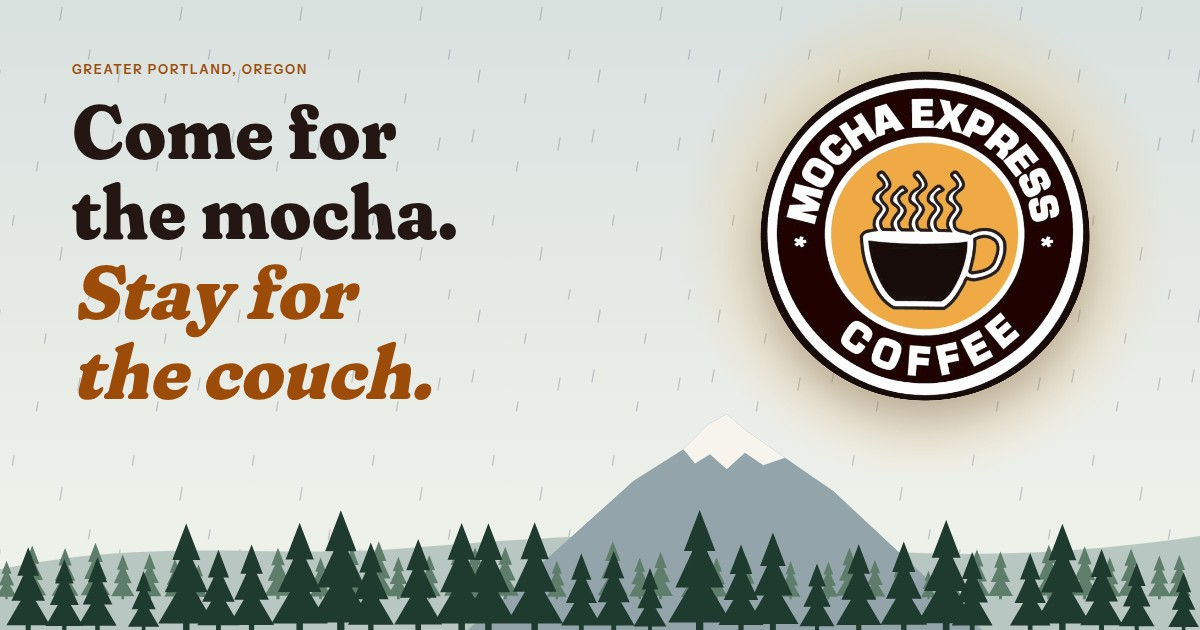
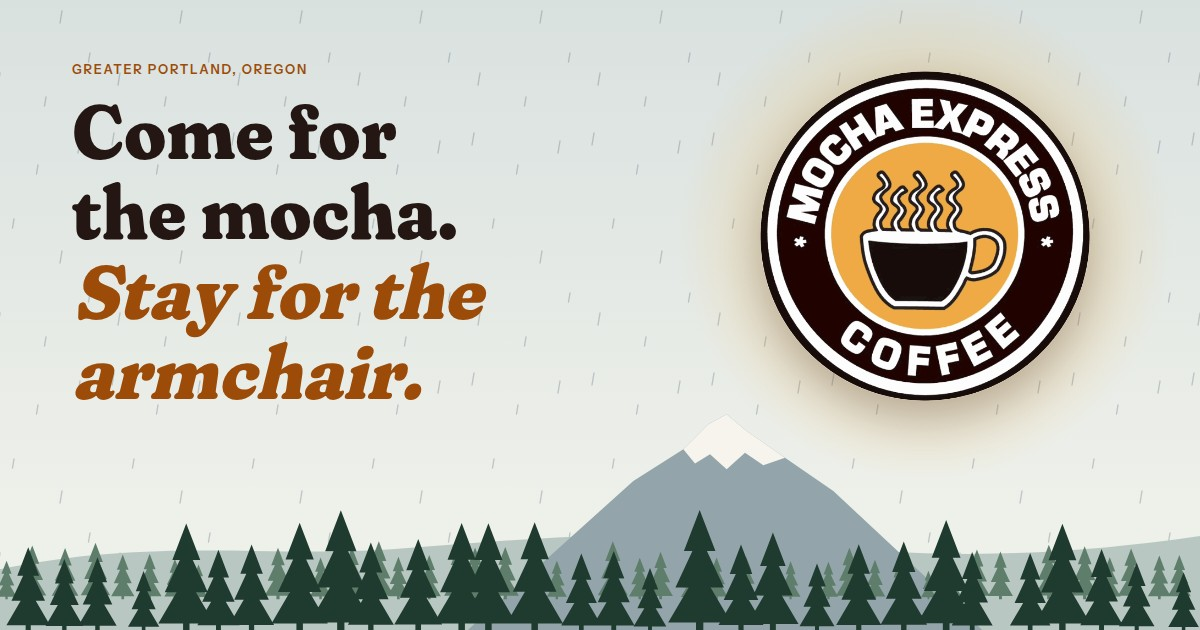
Show the shop's big armchairs instead of couches
The shops have oversized single armchairs, not couches. Redraw the lounge
illustration with two recliner-style armchairs, a reading lamp and a work
table, and update the hero line, the space copy, the amenity icon, the
page description and the link-preview image.

Claude-Session: https://claude.ai/code/session_01GDkGbK2mZAiAHDxbWSDNpz

Changed region(s): [[0.0617, 0.5429, 0.37, 0.6333], [0.3083, 0.4222, 0.4317, 0.5127]]

diff --git a/src/components/CozyCorner.tsx b/src/components/CozyCorner.tsx
@@ -2,14 +2,30 @@ import { firRow } from "./Scenery";
 
 const WINDOW = "M48 250V140a92 92 0 0 1 184 0v110Z";
 
-/** Illustration of the shop's lounge: a couch under a rainy window, a reading lamp and a work table. */
+/** An oversized, recliner-style armchair, 150 wide, standing on the floor at y 388. */
+function Armchair({ x, tone }: { x: number; tone: "green" | "caramel" }) {
+  return (
+    <g className={`cozy__chair cozy__chair--${tone}`} transform={`translate(${x} 0)`}>
+      <rect className="cozy__body" x="16" y="214" width="118" height="116" rx="34" />
+      <path className="cozy__seam" d="M32 254H118M32 292H118" />
+      <rect className="cozy__seat" x="30" y="312" width="90" height="34" rx="14" />
+      <rect className="cozy__body" x="34" y="340" width="82" height="38" rx="8" />
+      <rect className="cozy__arm" x="0" y="276" width="40" height="102" rx="20" />
+      <rect className="cozy__arm" x="110" y="276" width="40" height="102" rx="20" />
+      <rect className="cozy__dark" x="12" y="374" width="12" height="14" rx="3" />
+      <rect className="cozy__dark" x="126" y="374" width="12" height="14" rx="3" />
+    </g>
+  );
+}
+
+/** Illustration of the shop: big armchairs under a rainy window, a reading lamp and a work table. */
 export function CozyCorner() {
   return (
     <svg
       className="cozy"
-      viewBox="0 0 600 440"
+      viewBox="0 0 680 440"
       role="img"
-      aria-label="A green couch under a rainy window, with a reading lamp, a laptop and a mug of coffee"
+      aria-label="Two big armchairs under a rainy window beside a reading lamp, and a work table with a laptop and coffee"
     >
       <defs>
         <radialGradient id="cozy-glow">
@@ -24,49 +40,52 @@ export function CozyCorner() {
         </pattern>
       </defs>
 
-      <circle cx="455" cy="140" r="135" fill="url(#cozy-glow)" />
+      <circle cx="438" cy="140" r="135" fill="url(#cozy-glow)" />
 
-      <g clipPath="url(#cozy-glass)">
-        <rect className="cozy__sky" x="48" y="48" width="184" height="202" />
-        <path className="cozy__mountain" d="M66 250 132 166 146 156 160 168 222 250Z" />
-        <path className="cozy__snow" d="M132 166 146 156 160 168 152 174 146 168 139 175Z" />
-        <path
-          className="cozy__firs"
-          transform="translate(48 0)"
-          d={firRow({ base: 252, count: 8, minHeight: 34, maxHeight: 70, seed: 3, width: 184 })}
-        />
-        <rect x="48" y="48" width="184" height="202" fill="url(#cozy-rain)" />
+      <g transform="translate(0 -24)">
+        <g clipPath="url(#cozy-glass)">
+          <rect className="cozy__sky" x="48" y="48" width="184" height="202" />
+          <path className="cozy__mountain" d="M66 250 132 166 146 156 160 168 222 250Z" />
+          <path className="cozy__snow" d="M132 166 146 156 160 168 152 174 146 168 139 175Z" />
+          <path
+            className="cozy__firs"
+            transform="translate(48 0)"
+            d={firRow({ base: 252, count: 8, minHeight: 34, maxHeight: 70, seed: 3, width: 184 })}
+          />
+          <rect x="48" y="48" width="184" height="202" fill="url(#cozy-rain)" />
+        </g>
+        <path className="cozy__frame" d={`${WINDOW}M140 48V250M48 162H232`} />
       </g>
-      <path className="cozy__frame" d={`${WINDOW}M140 48V250M48 162H232`} />
 
-      <ellipse className="cozy__rug" cx="290" cy="418" rx="230" ry="16" />
+      <ellipse className="cozy__rug" cx="254" cy="394" rx="196" ry="14" />
 
       <path className="cozy__leaf" d="M82 330C58 300 60 268 70 252 86 276 92 304 82 330ZM82 330C96 296 116 284 132 282 124 306 106 324 82 330ZM82 330C70 310 46 302 34 304 44 322 62 332 82 330Z" />
       <rect className="cozy__pot" x="62" y="326" width="42" height="50" rx="8" />
 
-      <rect className="cozy__couch" x="150" y="236" width="250" height="86" rx="24" />
-      <rect className="cozy__couch" x="136" y="326" width="278" height="36" rx="12" />
-      <rect className="cozy__cushion" x="168" y="294" width="106" height="40" rx="12" />
-      <rect className="cozy__cushion" x="276" y="294" width="106" height="40" rx="12" />
-      <rect className="cozy__arm" x="128" y="272" width="48" height="92" rx="20" />
-      <rect className="cozy__arm" x="374" y="272" width="48" height="92" rx="20" />
-      <rect className="cozy__pillow" x="178" y="256" width="54" height="46" rx="14" transform="rotate(-10 205 279)" />
-      <rect className="cozy__dark" x="152" y="362" width="10" height="16" rx="3" />
-      <rect className="cozy__dark" x="388" y="362" width="10" height="16" rx="3" />
+      <rect className="cozy__dark" x="435" y="138" width="6" height="248" rx="3" />
+      <ellipse className="cozy__dark" cx="438" cy="386" rx="30" ry="6" />
+      <path className="cozy__shade" d="M407 96H469L483 140H393Z" />
 
-      <rect className="cozy__dark" x="452" y="138" width="6" height="236" rx="3" />
-      <ellipse className="cozy__dark" cx="455" cy="376" rx="32" ry="7" />
-      <path className="cozy__shade" d="M424 96H486L500 140H410Z" />
+      <Armchair x={96} tone="green" />
+      <rect className="cozy__pillow" x="140" y="268" width="50" height="44" rx="14" transform="rotate(-10 165 290)" />
+      <rect className="cozy__mug" x="215" y="256" width="22" height="22" rx="5" />
+      <path className="cozy__handle" d="M237 261a7 7 0 0 1 0 12" />
+      <path className="cozy__steam" d="M221 248c-4-6 4-10 0-16M231 248c-4-6 4-10 0-16" />
 
-      <rect className="cozy__laptop" x="236" y="328" width="78" height="46" rx="5" />
-      <circle className="cozy__shade" cx="275" cy="351" r="7" />
-      <rect className="cozy__laptop-base" x="228" y="370" width="94" height="5" rx="2" />
-      <rect className="cozy__mug" x="336" y="350" width="24" height="22" rx="5" />
-      <path className="cozy__handle" d="M360 355a7 7 0 0 1 0 12" />
-      <path className="cozy__steam" d="M343 342c-4-6 4-10 0-16M353 342c-4-6 4-10 0-16" />
-      <rect className="cozy__wood" x="210" y="374" width="170" height="12" rx="6" />
-      <rect className="cozy__wood" x="226" y="384" width="8" height="32" rx="3" />
-      <rect className="cozy__wood" x="356" y="384" width="8" height="32" rx="3" />
+      <Armchair x={262} tone="caramel" />
+
+      <rect className="cozy__desk-chair" x="526" y="204" width="64" height="12" rx="6" />
+      <rect className="cozy__desk-chair" x="532" y="210" width="6" height="178" rx="3" />
+      <rect className="cozy__desk-chair" x="578" y="210" width="6" height="178" rx="3" />
+      <rect className="cozy__desk-chair" x="524" y="300" width="68" height="8" rx="4" />
+      <rect className="cozy__wood" x="468" y="262" width="172" height="12" rx="6" />
+      <rect className="cozy__wood" x="480" y="270" width="8" height="118" rx="3" />
+      <rect className="cozy__wood" x="620" y="270" width="8" height="118" rx="3" />
+      <rect className="cozy__laptop" x="524" y="222" width="68" height="40" rx="5" />
+      <circle className="cozy__shade" cx="558" cy="242" r="6" />
+      <rect className="cozy__laptop-base" x="518" y="259" width="80" height="4" rx="2" />
+      <rect className="cozy__mug" x="604" y="242" width="20" height="20" rx="5" />
+      <path className="cozy__handle" d="M624 247a6 6 0 0 1 0 10" />
     </svg>
   );
 }

diff --git a/src/components/Space.tsx b/src/components/Space.tsx
@@ -2,7 +2,7 @@ import { CozyCorner } from "./CozyCorner";
 import { Icon, type IconName } from "./Icon";
 
 const AMENITIES: { icon: IconName; title: string; text: string }[] = [
-  { icon: "couch", title: "Couches", text: "Sink in with a mocha, a book or a friend." },
+  { icon: "armchair", title: "Big armchairs", text: "Basically a couch for one. Sink in with a mocha or a book." },
   { icon: "laptop", title: "Comfortable work tables", text: "Room for the laptop, the notebook and the second coffee." },
   // TODO: confirm the shops offer free Wi-Fi.
   { icon: "wifi", title: "Free Wi-Fi", text: "Hop on and get some work done." },
@@ -17,8 +17,8 @@ export function Space() {
           <p className="eyebrow">The space</p>
           <h2>Stay a while.</h2>
           <p className="lead">
-            Sink into a couch with a mocha, or claim a comfortable table and get some work done. Rainy
-            Portland afternoons were made for this.
+            Sink into an oversized armchair with a mocha, or claim a comfortable table and get some work
+            done. Rainy Portland afternoons were made for this.
           </p>
           <ul className="amenities">
             {AMENITIES.map(({ icon, title, text }) => (

diff --git a/src/app/globals.css b/src/app/globals.css
@@ -244,9 +244,12 @@ h1, h2 { font-variation-settings: "SOFT" 100, "WONK" 1; }
 .cozy__rug { fill: rgb(243 162 28 / 16%); }
 .cozy__leaf { fill: var(--moss); }
 .cozy__pot { fill: var(--orange-deep); }
-.cozy__couch { fill: #2f5a45; }
-.cozy__arm { fill: #284e3c; }
-.cozy__cushion { fill: #3c6b53; }
+.cozy__chair--green { --body: #2f5a45; --arm: #284e3c; --seat: #3c6b53; }
+.cozy__chair--caramel { --body: #a0612f; --arm: #8a5228; --seat: #b5713a; }
+.cozy__body { fill: var(--body); }
+.cozy__arm { fill: var(--arm); }
+.cozy__seat { fill: var(--seat); }
+.cozy__seam { fill: none; stroke: var(--arm); stroke-width: 3; stroke-linecap: round; }
 .cozy__pillow, .cozy__shade { fill: var(--orange); }
 .cozy__dark { fill: #140b08; }
 .cozy__laptop { fill: #cfc8bd; }
@@ -260,6 +263,7 @@ h1, h2 { font-variation-settings: "SOFT" 100, "WONK" 1; }
   animation: rise 3s ease-in-out infinite;
 }
 .cozy__wood { fill: var(--walnut); }
+.cozy__desk-chair { fill: #553527; }
 
 /* Menu */
 .tabs { display: flex; justify-content: center; gap: .5rem; margin-bottom: 2rem; }

diff --git a/src/app/layout.tsx b/src/app/layout.tsx
@@ -14,7 +14,7 @@ export const metadata: Metadata = {
   metadataBase: siteUrl ? new URL(siteUrl) : undefined,
   title: "Mocha Express Coffee | Portland, OR",
   description:
-    "Cozy Portland coffeehouse with couches, comfortable work tables and handcrafted mochas. Three locations; order ahead for pickup.",
+    "Cozy Portland coffeehouse with big armchairs, comfortable work tables and handcrafted mochas. Three locations; order ahead for pickup.",
   twitter: { card: "summary_large_image" },
 };
 

diff --git a/src/app/page.tsx b/src/app/page.tsx
@@ -13,7 +13,7 @@ export default function Home() {
           <div>
             <p className="eyebrow">Greater Portland, Oregon</p>
             <h1>
-              Come for the mocha. <span className="accent">Stay for the couch.</span>
+              Come for the mocha. <span className="accent">Stay for the armchair.</span>
             </h1>
             <p className="lead">
               Rain or shine (mostly rain), we pour handcrafted espresso and mochas at three spots around

diff --git a/src/components/Icon.tsx b/src/components/Icon.tsx
@@ -1,5 +1,5 @@
 const PATHS = {
-  couch: "M5 10V8a2 2 0 0 1 2-2h10a2 2 0 0 1 2 2v2M3 12a2 2 0 0 1 4 0v2h10v-2a2 2 0 0 1 4 0v5H3zM5 17v2M19 17v2",
+  armchair: "M7 11V7a3 3 0 0 1 3-3h4a3 3 0 0 1 3 3v4M4 13a2 2 0 0 1 4 0v2h8v-2a2 2 0 0 1 4 0v5H4zM6 18v2M18 18v2",
   laptop: "M5 6h14v9H5zM3 18h18",
   wifi: "M2.5 9a14 14 0 0 1 19 0M5.5 12.5a9.5 9.5 0 0 1 13 0M8.5 16a5 5 0 0 1 7 0M12 19.5h.01",
   bag: "M6 8h12l-1 12H7zM9 8V6a3 3 0 0 1 6 0v2",
